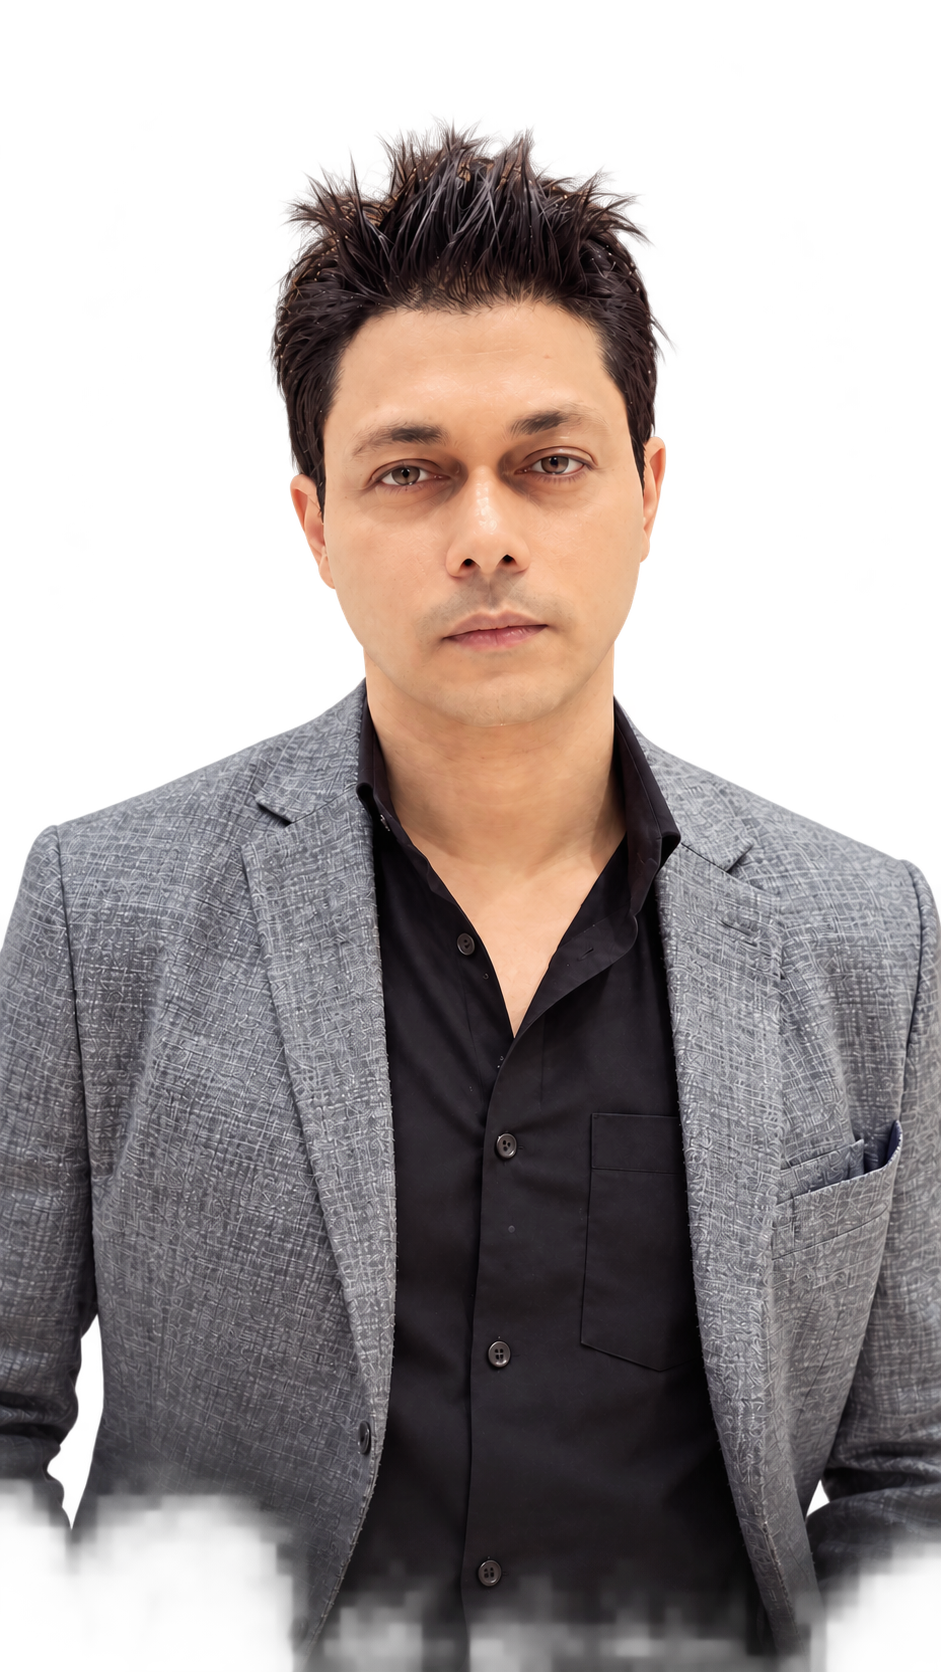
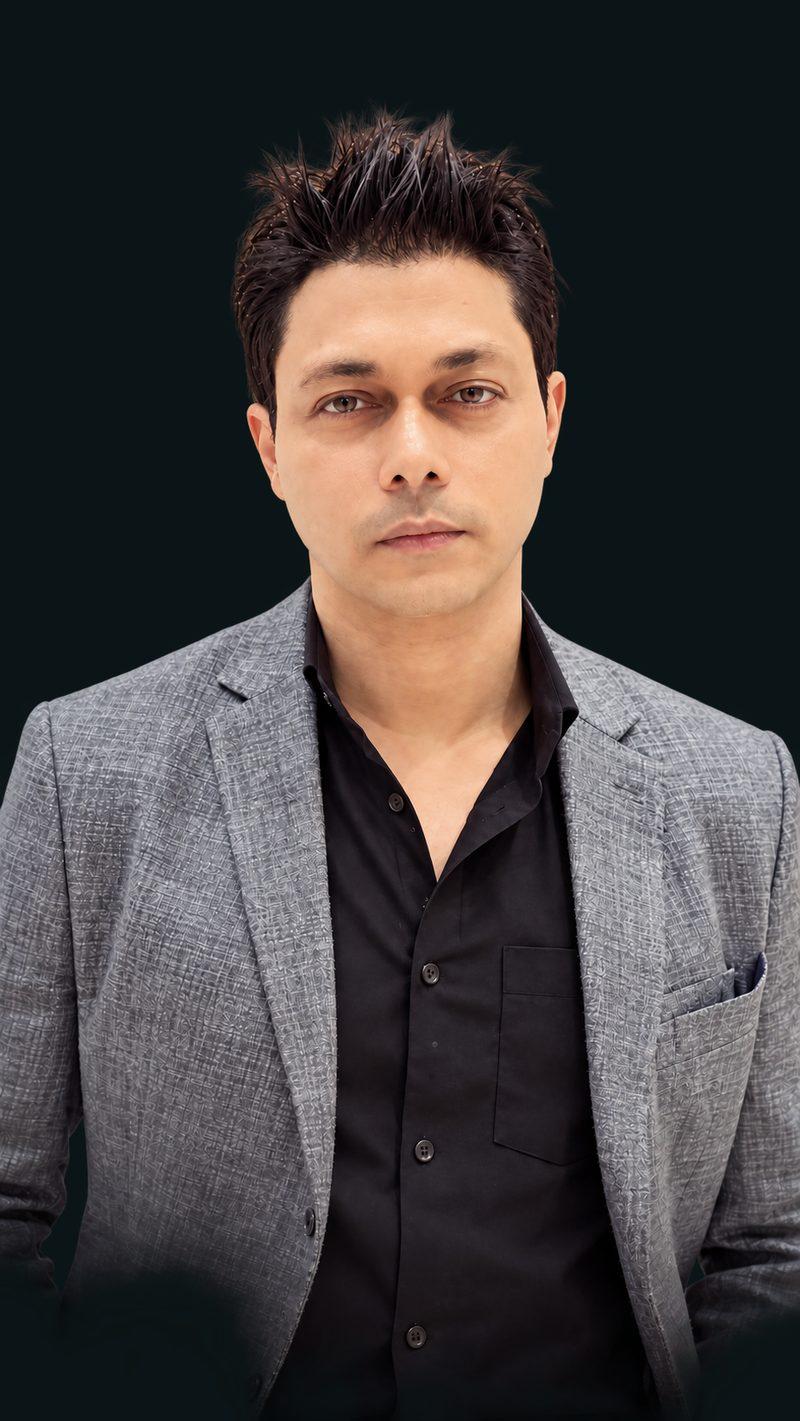
Founder photo: full-visible on mobile, optimized 2MB to 140KB

diff --git a/team.html b/team.html
@@ -49,8 +49,8 @@
 <!-- FOUNDER -->
 <section class="max-w-[1280px] mx-auto px-6 pt-10">
   <div class="grid lg:grid-cols-12 gap-0 bg-white border border-line overflow-hidden">
-    <div class="lg:col-span-5 relative bg-ink overflow-hidden h-[440px] lg:h-[560px]">
-      <img src="assets/founder.jpg" alt="MOHAMMED — Founder, Deccan Firm" class="w-full h-full object-cover object-top">
+    <div class="lg:col-span-5 relative bg-ink overflow-hidden">
+      <img id="founderImg" src="assets/founder.jpg" alt="MOHAMMED - Founder, Deccan Firm" class="w-full h-auto object-contain object-top lg:h-[560px] lg:object-cover">
       <div class="absolute top-4 left-4 bg-paper font-mono text-[10px] px-2.5 py-1.5 tracking-[0.16em] uppercase">Founder & Managing Director</div>
       <div class="absolute bottom-0 left-0 right-0 bg-gradient-to-t from-black/75 to-transparent p-5">
         <div class="font-mono text-[10px] tracking-[0.16em] uppercase text-white/70">Hyderabad • Since 2018 • IEC Certified</div>
